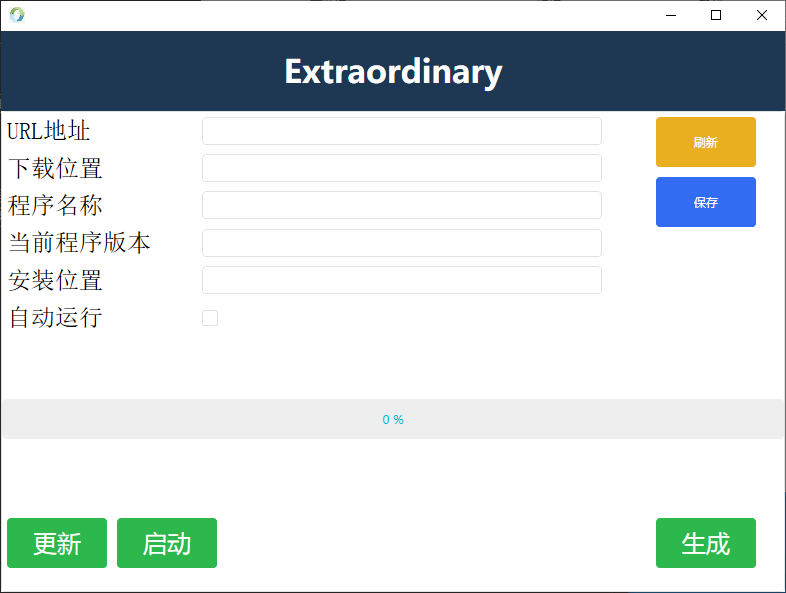
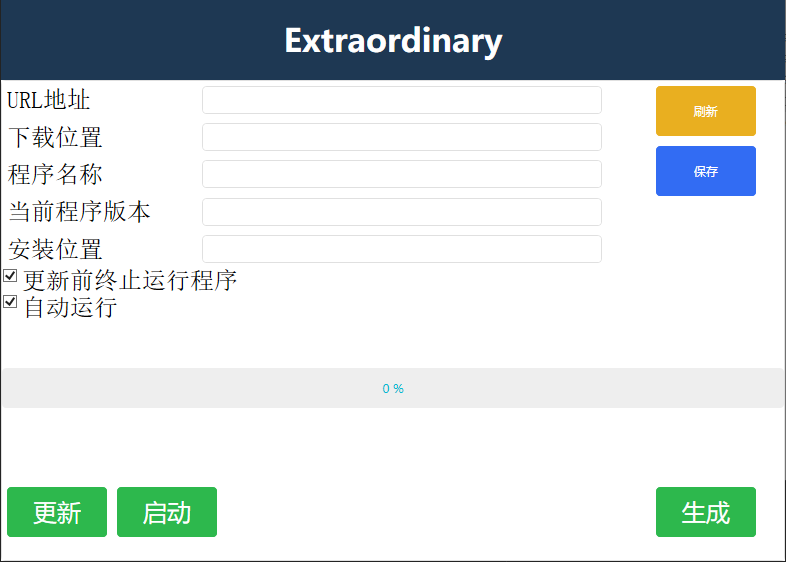
界面调整

diff --git a/src/Extraordinary.App/Views/Realtime.xaml b/src/Extraordinary.App/Views/Realtime.xaml
@@ -23,6 +23,12 @@
                 <Setter Property="VerticalAlignment" Value="Center" />
                 <Setter Property="Width" Value="200" />
             </Style>
+            
+            <Style TargetType="CheckBox">
+                <Setter Property="FontSize" Value="24" />
+                <Setter Property="FontFamily" Value="NSimSun" />
+                <Setter Property="VerticalAlignment" Value="Center" />
+            </Style>
 
             <Style TargetType="TextBlock">
                 <Setter Property="FontSize" Value="24" />
@@ -82,13 +88,11 @@
             </StackPanel>
 
             <StackPanel Orientation="Horizontal">
-                <Label Content="更新前终止" />
-                <CheckBox x:Name="checkBox_Kill_App" IsChecked="{Binding Kill_App.Value}" />
+                <CheckBox x:Name="checkBox_Kill_App" IsChecked="{Binding Kill_App.Value}" Content="更新前终止运行程序"/>
             </StackPanel>
             
             <StackPanel Orientation="Horizontal">
-                <Label Content="自动运行" />
-                <CheckBox x:Name="checkBox_Self_Starting" IsChecked="{Binding Self_Starting.Value}" />
+                <CheckBox x:Name="checkBox_Self_Starting" IsChecked="{Binding Self_Starting.Value}" Content="自动运行"/>
             </StackPanel>
         </StackPanel>
 

diff --git a/src/Extraordinary.App/ViewModels/RealtimeViewModel.cs b/src/Extraordinary.App/ViewModels/RealtimeViewModel.cs
@@ -30,8 +30,8 @@ namespace Extraordinary.App.ViewModels
             this.AppName = new ReactiveProperty<string>();
             this.CurrentMD5Version = new ReactiveProperty<string>();
             this.InstallationPath = new ReactiveProperty<string>();
-            this.Self_Starting = new ReactiveProperty<bool>();
-            this.Kill_App = new ReactiveProperty<bool>();
+            this.Self_Starting = new ReactiveProperty<bool>(true);
+            this.Kill_App = new ReactiveProperty<bool>(true);
 
             this.ProgressMaxValue = new ReactiveProperty<long>(long.MaxValue);
             this.ProgressValue = new ReactiveProperty<long>(0);
@@ -54,10 +54,7 @@ namespace Extraordinary.App.ViewModels
                         if (r.Succeed)
                         {
                             Growl.SuccessGlobal(r.ResultValue);
-                            UIHelper.RunInUIThread(pl =>
-                            {
-                                this.Close(this.Self_Starting.Value);
-                            });
+                            this.Close(this.Self_Starting.Value);
                         }
                         else
                         {
@@ -96,7 +93,6 @@ namespace Extraordinary.App.ViewModels
                             MessageBox.Show(initres.ErrorValue);
                         }
                     }
-
                 }
                 catch (Exception ex)
                 {
@@ -177,12 +173,10 @@ namespace Extraordinary.App.ViewModels
                         if (r2.Succeed)
                         {
                             Growl.SuccessGlobal("启动成功");
-                            //MessageBox.Show(r1.ErrorValue);
                         }
                         else
                         {
                             MessageBox.Show(r2.ErrorValue);
-
                         }
                     }
                     else

diff --git a/README.md b/README.md
@@ -1,6 +1,7 @@
 # AutoUpdata
 
 这是一个可通过远程服务器自动更新APP程序的软件
+- ![alt text](image.png)
 
 ## 这个程序是做什么？
 
@@ -13,15 +14,12 @@
 - 首先你需要一个IIS的服务端
 - 将你的程序打包成zip，并放置在IIS中
 - 点击生成按钮，选择你的程序压缩包，然后他就会在你的压缩包的同级目录下生成一个服务端配置文件(程序更新时，是需要读取这个文件，比对MD5信息)
-- ![alt text](image-1.png)
 - 至此，服务端的配置结束
 
 - 其次，在需要程序运行的局域网电脑中，配置更新参数
-- ![alt text](image-2.png)
 - 配置完记得保存刷新(它会在程序运行的目录下生成一个配置文件)
 - 点击【更新】将会从远程服务端下载程序文件
 - 点击【启动】将会直接从安装目录寻找程序启动
-- ![alt text](image-3.png)
 - 如果你勾选了【自动运行】，它会在程序启动的时候自动执行一遍更新操作，并且更新完后关闭当前进程
 
 ## 下载链接
